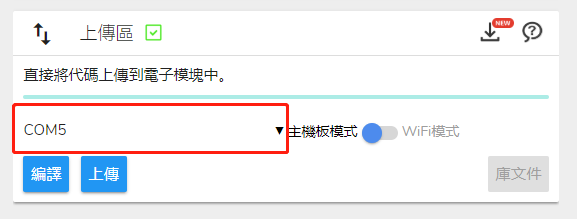
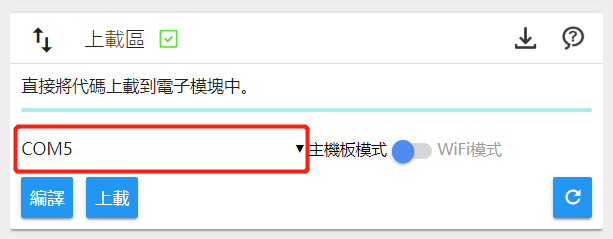
Update info.md
-更新圖片
-更改文字描述

diff --git a/getting-started/info.md b/getting-started/info.md
@@ -17,7 +17,7 @@
 
 * 註：使用 CocoBlockly 編程時，務必確保本機的 CocoBlockly Uploader 打開了，否則將無法給電子模組上傳程式；
 * 瀏覽器兼容性
-    * <b style="background-color:orangered; margin-right: 3px; padding: 2px 5px; color: #fff; font-size: 12px; border-radius: 4px;">推薦使用</b> Google Chrome，版本號需要大於 55 
+    * <b style="background-color:orangered; margin-right: 3px; padding: 2px 5px; color: #fff; font-size: 12px; border-radius: 4px;">推薦使用</b> Google Chrome，版本號需要大於 55
     * Opera，版本號需要大於 50
     * Firefox，版本號需要大於 55
     * Safari，版本號需要大於 12
@@ -28,23 +28,25 @@
 
 #### 使用 Uploader 上傳程式
 
-1. 打開程式「CocoBlockly Uploader」
-2. 打開網頁：http://cocorobo.hk/cocoblockly/dev/
-3. CocoBlockly 完成載入後，界面右上方會提示「插件已經成功連接！」
+1. 打開已安裝好的插件「CocoBlockly Uploader」
+<div style="padding: 10px 0 10px 0;text-align: center;"><img src="../media/intro_upload_icon.png" width="20%" /></div>
 
+2. 打開網頁：http://cocorobo.hk/cocoblockly/dev/
+
+3. CocoBlockly 完成載入後，界面右上方會提示「插件已經成功連接！」
 <div style="padding: 10px 0 10px 0;text-align: center;"><img src="../media/intro_upload_1.png" width="40%" /></div>
 
   - 同時，「程式上傳區」也會顯示連接成功
 
 <div style="padding: 10px 0 10px 0;text-align: center;"><img src="../media/intro_upload_2.png" width="70%" /></div>
 
-4. 將主機板模組通過 USB 線接入電腦，通過一小段時間，將會顯示主機板模組的端口名。
+4. 將主機板模組通過 USB 線接入電腦，經過一小段時間后，將會顯示主機板模組的端口名。
   - **注1**：關於主機板模組的資料，請查閲：[使用主機板模組](/cocomod/main-controller)
   - **注2**：Windows 裏的端口名通常以 COM 開頭，MacOS 裏的通常以 /dev/tty.usb 開頭。
 
 <div style="padding: 10px 0 10px 0;text-align: center;"><img src="../media/intro_upload_3.png" width="70%" /></div>
 
-6. 點擊「上傳（Upload）」開始將「積木對應原始碼參考區」中的 Arduino 原始碼上傳至主機板中，此時會經歷3個步驟：
+5. 點擊「上載」開始將「積木對應原始碼參考區」中的 Arduino 原始碼上傳至主機板中，此時會經歷3個步驟：
 
   - 編譯中（Compiling）
 
@@ -58,6 +60,9 @@
 
 <div style="padding: 10px 0 10px 0;text-align: center;"><img src="../media/intro_upload_6.png" width="70%" /></div>
 
-7. 完成以上3個步驟，就意味著我們已經將程式上傳至主機板中
+6. 完成以上3個步驟，就意味著我們已經將程式上傳至主機板中
 
   - **注**：與 Arduino IDE 的「Verify code」類似，我們提供「編譯（Compile）」這個選項，供大家測試編寫的程式是否能夠正確編譯
+
+
+  <div style="padding: 10px 0 10px 0;text-align: center;"><img src="../media/intro_upload_7.png" width="70%" /></div>
